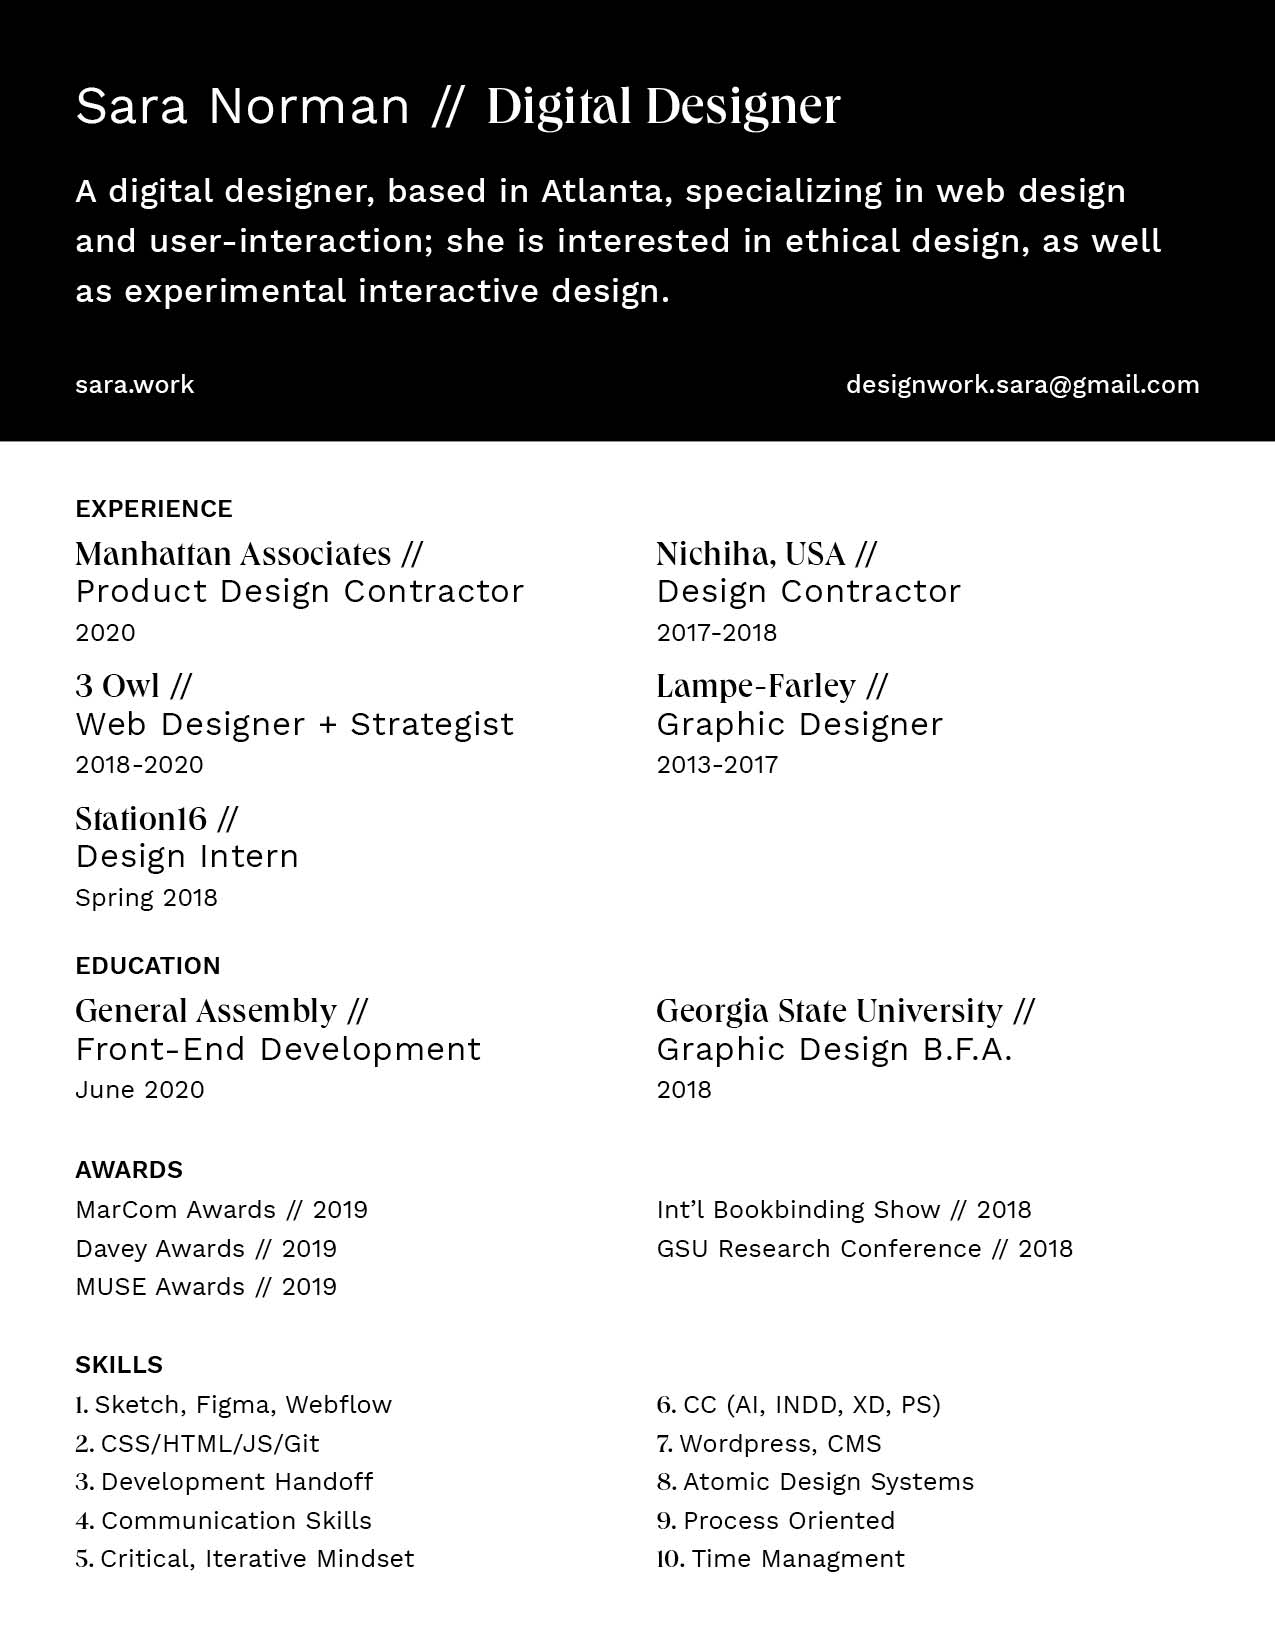
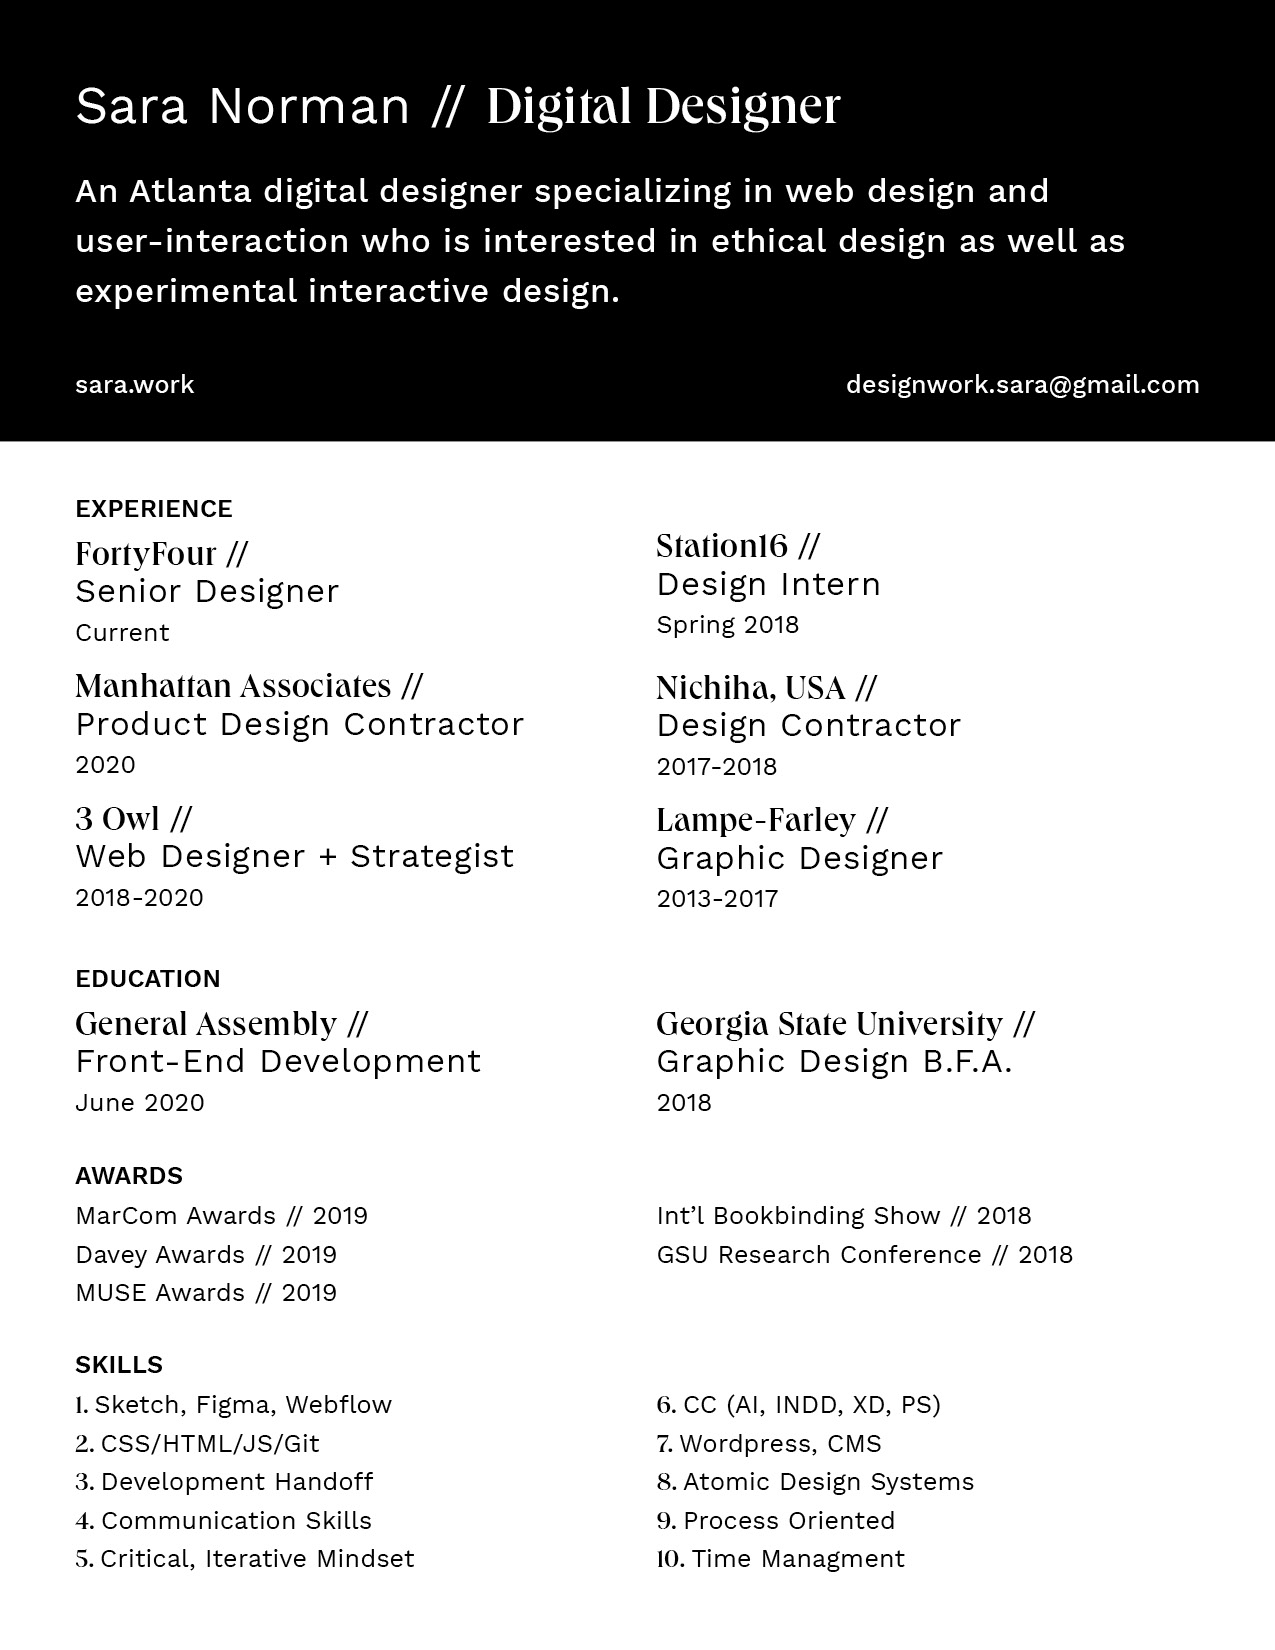
Updated current job

diff --git a/about-contact.html b/about-contact.html
@@ -26,11 +26,10 @@
 		<section class="landing-contact mobile">
 			<picture class="headshot">
 				<img src="/assets/images/Sara-Norman_Headshot.jpg" alt="Sara Norman Headshot">
-				<p class="tag caption">Photo by <a target="_blank" href="https://www.ahmanncreative.com/">Jayne Anne</a></p>
             </picture>
             <div class="landing-text">
 			<h1>
-				<span class="serif">Sara</span> is a digital designer based in Atlanta looking for a full-time position.
+				<span class="serif">Sara</span> is a digital designer based in Atlanta–currently a Senior Designer at FortyFour.
 			</h1>
 		
 			<br>
@@ -53,6 +52,10 @@
 			</div>
 			<div class="right long-row">
 				<ul class="info-list">
+					<li>
+						<div class="long-row"><span class="serif">FortyFour</span>&nbsp;· Senior Designer</div>
+						<div class="short-row">2020-Present</div>
+					</li>
 					<li>
 						<div class="long-row"><span class="serif">Manhattan Associates</span>&nbsp;· Product Designer</div>
 						<div class="short-row">2020</div>

diff --git a/index.html b/index.html
@@ -40,7 +40,7 @@
 			<div class="columns info">
 				<div class="column1">
 					<h4 class="princess">Recent</h4>
-					<p>Contract Product Designer at Manhattan Associates<i>(2020)</i></p>
+					<p>Senior Designer at FortyFour <i>(2020)</i></p>
 					<p>GA Front-End Development Course <i>(2020)</i></p>
 					<p>Designer at 3 Owl Agency <i>(2018-2020)</i></p>
 				</div>
